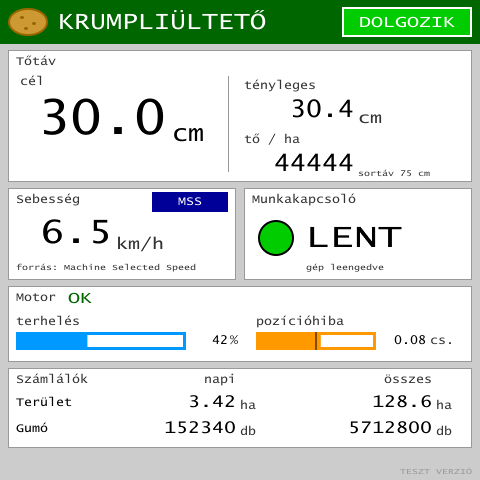
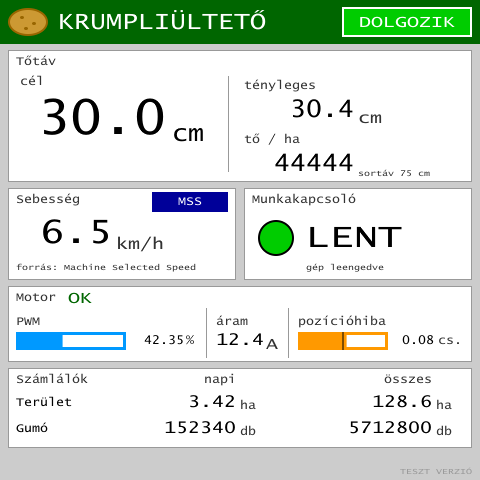
Show motor PWM with two decimals and motor current
PWM bar and number share one number variable (0.01 %), so one Change
Numeric Value updates both. Current is shown in 0.1 A.

Changed region(s): [[0.4375, 0.6562, 0.9375, 0.75], [0.25, 0.6875, 0.4062, 0.75], [0.0312, 0.6562, 0.1875, 0.75]]

diff --git a/tools/make_pool.py b/tools/make_pool.py
@@ -125,10 +125,14 @@ class Pool:
                         u8(11) + u16(w) + u16(h) + u8(bg) + u16(font) + u8((1 if transparent else 0) | (2 if wrap else 0)) + u16(NONE) +
                         u8(just) + u16(len(data)) + data + u8(0), refs=[font], name=name)
 
-    def number(self, object_id, w, h, value, scale, decimals, colour=BLACK, size=F16x24, just=RIGHT | MIDDLE, offset=0, name=None):
+    def number(self, object_id, w, h, value, scale, decimals, colour=BLACK, size=F16x24, just=RIGHT | MIDDLE, offset=0, name=None,
+               var=NONE):
         font = self.font(colour, size)
-        return self.add(object_id, u8(12) + u16(w) + u16(h) + u8(WHITE) + u16(font) + u8(1) + u16(NONE) + u32(value) +
-                        i32(offset) + f32(scale) + u8(decimals) + u8(0) + u8(just) + u8(0), refs=[font], name=name)
+        return self.add(object_id, u8(12) + u16(w) + u16(h) + u8(WHITE) + u16(font) + u8(1) + u16(var) + u32(value) +
+                        i32(offset) + f32(scale) + u8(decimals) + u8(0) + u8(just) + u8(0), refs=[font, var], name=name)
+
+    def number_variable(self, object_id, value, name=None):
+        return self.add(object_id, u8(21) + u32(value), name=name)
 
     def input_number(self, object_id, w, h, value, minimum, maximum, scale, decimals, size=F16x24, name=None):
         font = self.font(BLACK, size)
@@ -159,14 +163,15 @@ class Pool:
                 b"".join(u16(x) + u16(y) for x, y in points))
         return self.add(self.auto(), body, refs=[line, fill])
 
-    def bar(self, object_id, w, h, value, colour, ticks=0, target=None, name=None):
+    def bar(self, object_id, w, h, value, colour, ticks=0, target=None, name=None, maximum=100, var=NONE):
         options = 0x01 | 0x10 | 0x20  # border, horizontal, grows to the right
         if target is not None:
             options |= 0x02
         if ticks:
             options |= 0x04
         return self.add(object_id, u8(18) + u16(w) + u16(h) + u8(colour) + u8(BLACK) + u8(options) + u8(ticks) +
-                        u16(0) + u16(100) + u16(NONE) + u16(value) + u16(NONE) + u16(target or 0) + u8(0), name=name)
+                        u16(0) + u16(maximum) + u16(var) + u16(value) + u16(NONE) + u16(target or 0) + u8(0),
+                        refs=[var], name=name)
 
     def container(self, w, h, items):
         return self.add(self.auto(), u8(3) + u16(w) + u16(h) + u8(0) + u8(len(items)) + u8(0) + children(items),
@@ -230,8 +235,8 @@ OUT_WORK_SWITCH_TEXT = 6005       # string, 5 chars: "LENT" / "FENT"
 OBJ_WORK_SWITCH_LED = 6006        # ellipse, change its fill attribute
 OUT_STATUS_TEXT = 6007            # string, 9 chars: "DOLGOZIK" / "ÁLL" / "RIASZTÁS"
 OBJ_STATUS_BOX = 6008             # rectangle, change its fill attribute
-OUT_MOTOR_LOAD_BAR = 6009         # 0..100 %
-OUT_MOTOR_LOAD = 6010             # %
+OUT_MOTOR_PWM_BAR = 6009          # shows VAR_MOTOR_PWM
+OUT_MOTOR_PWM = 6010              # shows VAR_MOTOR_PWM
 OUT_POSITION_ERROR_BAR = 6011     # 0..100, 50 = no error
 OUT_POSITION_ERROR = 6012         # 0.01 cup, offset so that 0 cup = 10000
 OUT_AREA_DAY = 6013               # 0.01 ha
@@ -239,6 +244,8 @@ OUT_AREA_TOTAL = 6014             # 0.1 ha
 OUT_SEEDS_DAY = 6015              # pieces
 OUT_SEEDS_TOTAL = 6016            # pieces
 OUT_MOTOR_STATE = 6017            # string, 8 chars
+OUT_MOTOR_CURRENT = 6018          # 0.1 A
+VAR_MOTOR_PWM = 6019              # number variable, 0.01 % (0..10000): PWM bar and number together
 
 # Settings
 IN_ROW_SPACING = 6100             # cm
@@ -306,6 +313,8 @@ def setting_row(pool, label, unit, input_id, value, minimum, maximum, scale, dec
 def build():
     p = Pool()
 
+    p.number_variable(VAR_MOTOR_PWM, 4235, name="VAR_MOTOR_PWM")
+
     # Attributes the ECU switches between with Change Attribute
     p.names[FILL_GREEN] = p.fill(rgb(0, 4, 0))
     p.names[FILL_RED] = p.fill(RED)
@@ -361,14 +370,20 @@ def build():
 
     motor = panel(p, 464, 76, "Motor") + [
         (p.text(90, 20, "OK", DARK_GREEN, F12x16, LEFT | MIDDLE, object_id=OUT_MOTOR_STATE, name="OUT_MOTOR_STATE"), 60, 2),
-        (p.text(80, 20, "terhelés", LABEL, F8x12), 8, 26),
-        (p.bar(OUT_MOTOR_LOAD_BAR, 170, 18, 42, rgb(0, 3, 5), ticks=5, name="OUT_MOTOR_LOAD_BAR"), 8, 46),
-        (p.number(OUT_MOTOR_LOAD, 40, 18, 42, 1, 0, BLACK, F8x12, name="OUT_MOTOR_LOAD"), 180, 46),
-        (p.text(16, 18, "%", LABEL, F8x12), 222, 46),
-        (p.text(140, 20, "pozícióhiba", LABEL, F8x12), 248, 26),
-        (p.bar(OUT_POSITION_ERROR_BAR, 120, 18, 54, rgb(5, 3, 0), target=50, name="OUT_POSITION_ERROR_BAR"), 248, 46),
-        (p.number(OUT_POSITION_ERROR, 50, 18, 10008, 0.01, 2, BLACK, F8x12, offset=-10000, name="OUT_POSITION_ERROR"), 368, 46),
-        (p.text(40, 18, "cs.", LABEL, F8x12), 422, 46),
+        (p.text(80, 20, "PWM", LABEL, F8x12), 8, 26),
+        (p.bar(OUT_MOTOR_PWM_BAR, 110, 18, 0, rgb(0, 3, 5), ticks=5, maximum=10000, var=VAR_MOTOR_PWM,
+               name="OUT_MOTOR_PWM_BAR"), 8, 46),
+        (p.number(OUT_MOTOR_PWM, 56, 18, 0, 0.01, 2, BLACK, F8x12, var=VAR_MOTOR_PWM, name="OUT_MOTOR_PWM"), 120, 46),
+        (p.text(16, 18, "%", LABEL, F8x12), 178, 46),
+        (p.rect(1, 50, GREY), 198, 22),
+        (p.text(60, 20, "áram", LABEL, F8x12), 208, 26),
+        (p.number(OUT_MOTOR_CURRENT, 52, 24, 124, 0.1, 1, BLACK, F12x16, name="OUT_MOTOR_CURRENT"), 204, 42),
+        (p.text(16, 24, "A", LABEL, F12x16, LEFT | BOTTOM), 258, 42),
+        (p.rect(1, 50, GREY), 280, 22),
+        (p.text(140, 20, "pozícióhiba", LABEL, F8x12), 290, 26),
+        (p.bar(OUT_POSITION_ERROR_BAR, 90, 18, 54, rgb(5, 3, 0), target=50, name="OUT_POSITION_ERROR_BAR"), 290, 46),
+        (p.number(OUT_POSITION_ERROR, 44, 18, 10008, 0.01, 2, BLACK, F8x12, offset=-10000, name="OUT_POSITION_ERROR"), 382, 46),
+        (p.text(30, 18, "cs.", LABEL, F8x12), 430, 46),
     ]
 
     def counter(label, unit, number_id, name, value, scale, decimals, y):
@@ -481,7 +496,7 @@ def write_header(p, path):
             lines.append(f"\tconstexpr std::uint16_t {n} = {p.names[n]};")
         return lines
 
-    var_names = [n for n in p.names if n.startswith(("IN_", "OUT_", "OBJ_"))]
+    var_names = [n for n in p.names if n.startswith(("IN_", "OUT_", "OBJ_", "VAR_"))]
     var_names.sort(key=lambda n: p.names[n])
     out = [
         "// Generated by tools/make_pool.py, do not edit.",

diff --git a/include/krumpli_pool_ids.hpp b/include/krumpli_pool_ids.hpp
@@ -50,8 +50,8 @@ namespace krumpli_pool
 	constexpr std::uint16_t OBJ_WORK_SWITCH_LED = 6006;
 	constexpr std::uint16_t OUT_STATUS_TEXT = 6007;
 	constexpr std::uint16_t OBJ_STATUS_BOX = 6008;
-	constexpr std::uint16_t OUT_MOTOR_LOAD_BAR = 6009;
-	constexpr std::uint16_t OUT_MOTOR_LOAD = 6010;
+	constexpr std::uint16_t OUT_MOTOR_PWM_BAR = 6009;
+	constexpr std::uint16_t OUT_MOTOR_PWM = 6010;
 	constexpr std::uint16_t OUT_POSITION_ERROR_BAR = 6011;
 	constexpr std::uint16_t OUT_POSITION_ERROR = 6012;
 	constexpr std::uint16_t OUT_AREA_DAY = 6013;
@@ -59,5 +59,7 @@ namespace krumpli_pool
 	constexpr std::uint16_t OUT_SEEDS_DAY = 6015;
 	constexpr std::uint16_t OUT_SEEDS_TOTAL = 6016;
 	constexpr std::uint16_t OUT_MOTOR_STATE = 6017;
+	constexpr std::uint16_t OUT_MOTOR_CURRENT = 6018;
+	constexpr std::uint16_t VAR_MOTOR_PWM = 6019;
 	constexpr std::uint16_t OUT_CAL_PULSES = 6207;
 } // namespace krumpli_pool

diff --git a/README.md b/README.md
@@ -28,8 +28,8 @@ kódolással (font type 2), így az ő és ű is helyesen jelenik meg. A kijelze
 
 ![Munkaképernyő](render/screen_1000.png)
 
-Cél tőtáv (bevihető), tényleges tőtáv, tő/ha, sebesség és forrása, munkakapcsoló, motor állapot és
-terhelés, pozícióhiba, napi és összes terület és gumószám.
+Cél tőtáv (bevihető), tényleges tőtáv, tő/ha, sebesség és forrása, munkakapcsoló, motor állapot,
+PWM (0,01 %) és áram (0,1 A), pozícióhiba, napi és összes terület és gumószám.
 Softkey-ek: tőtáv +/−, számlálók nullázása, beállítások.
 
 ### Beállítások és szerviz
@@ -73,7 +73,8 @@ vt-render --pool pool/krumpliulteto.iop --out render
 A firmware (még nincs meg) az `include/krumpli_pool_ids.hpp` azonosítóit használja, például:
 
 - tőtáv beállítás: `IN_TARGET_SPACING` (mm-ben tárolva, cm-ben kijelezve),
-- értékfrissítés *Change Numeric Value* paranccsal: `OUT_SPEED`, `OUT_SEEDS_PER_HA`, `OUT_MOTOR_LOAD_BAR`, …,
+- értékfrissítés *Change Numeric Value* paranccsal: `OUT_SPEED`, `OUT_SEEDS_PER_HA`, `OUT_MOTOR_CURRENT`, …,
+- motor PWM: a `VAR_MOTOR_PWM` number variable (0,01 %, 0–10000) frissítése egyszerre mozgatja a sávot és a számot,
 - állapotszöveg *Change String Value* paranccsal: `OUT_STATUS_TEXT`, `OUT_SPEED_SOURCE`, `OUT_WORK_SWITCH_TEXT`,
 - színváltás *Change Attribute* paranccsal: `OBJ_STATUS_BOX`, `OBJ_WORK_SWITCH_LED` → `FILL_GREEN` / `FILL_RED` / `FILL_GREY`,
 - riasztás: *Change Active Mask* `AM_JAM`, `AM_LAG`, `AM_NO_SPEED` vagy `AM_MOTOR` maszkra, nyugtázás `KEY_ALARM_ACK_CODE`.

diff --git a/docs/krumpliulteto-vezerlo.md b/docs/krumpliulteto-vezerlo.md
@@ -121,7 +121,7 @@ dolgozik = munkakapcsoló_lent && v > v_min && sebességforrás_érvényes && !r
 - Tényleges tőtáv (cm), számolt tő/ha
 - Sebesség + forrás (MSS / Ground / Wheel / nincs)
 - Munkakapcsoló állapot
-- Motor állapot / terhelés (%)
+- Motor állapot, kimenő PWM (%, 0,01 felbontás), motoráram (A)
 - Számlálók: terület (ha), gumószám (napi / összes, nullázható)
 
 ### Beállítások / kalibráció
